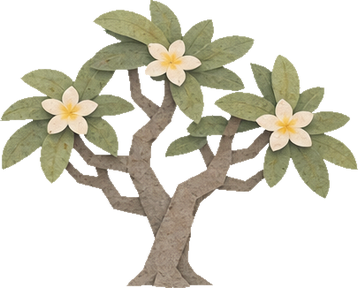
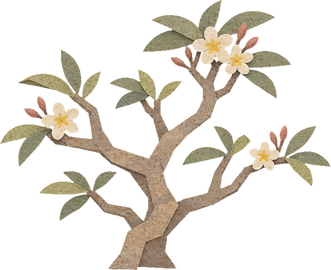
Tainan Gazetteer: plumeria drawn at its true game size
Request 29: Codex made four candidates and held them back (flowers a little
over the size limit, halo between branches). Claude picked candidate 2 (558 px
for 90 units, about 6 px per unit); its leaves and flowers now match the
banyan's instead of being a shrunk large drawing. All four candidates stay in
art-inbox.

Claude-Session: https://claude.ai/code/session_01SWmRBCoZi5zDewCs1B5KjF

diff --git a/yokai-night-market/src/data/manifest.ts b/yokai-night-market/src/data/manifest.ts
@@ -50,7 +50,7 @@ export const ASSETS: Asset[] = [
   a('literature', 'building', 124, 'placeholder', { tags: ['landmark'], name: '臺灣文學館（舊臺南州廳；Codex 紙雕試畫，待核可）' }),
   a('panggongSide', 'building', 130, 'placeholder', { tags: ['landmark'], name: '泮宮石坊（斜角）' }),
   a('confuciusWall', 'decor', 54, 'placeholder', { tags: ['connector'], name: '孔廟紅圍牆' }),
-  a('plumeria', 'tree', 96, 'placeholder', { name: '雞蛋花' }),
+  a('plumeria', 'tree', 90, 'placeholder', { name: '雞蛋花' }),
   a('norfolkPine', 'tree', 175, 'placeholder', { name: '南洋杉' }),
   a('rainTree', 'tree', 140, 'placeholder', { name: '雨豆樹' }),
   a('signLane', 'decor', 46, 'placeholder', { name: '告示牌：前往花巷（待核可）' }),
